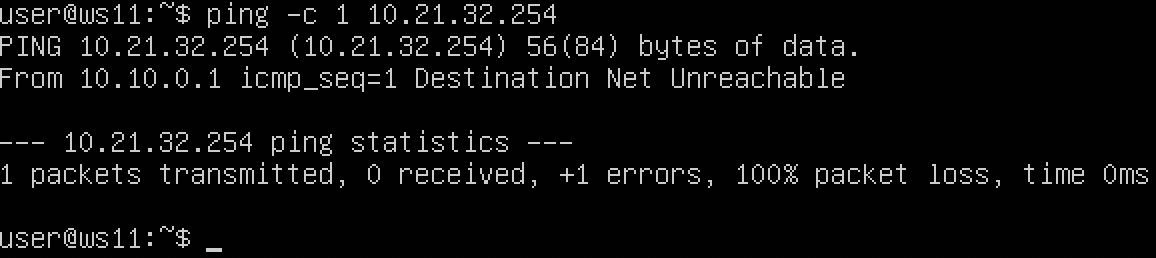
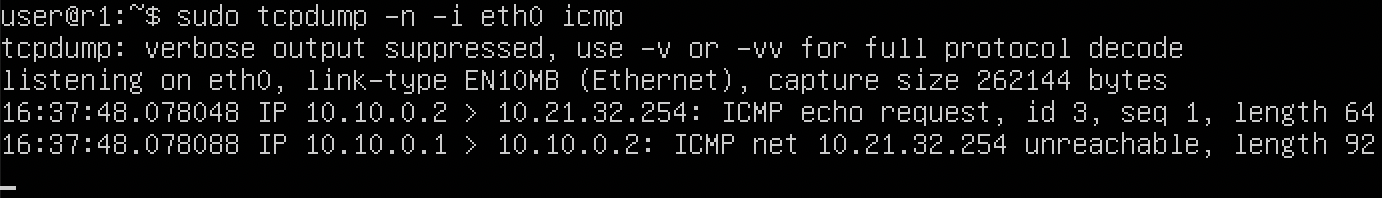
Part 5 is done

Changed region(s): [[0.0, 0.0, 0.872, 0.4848], [0.0, 0.5152, 0.9965, 0.7879], [0.0, 0.8788, 0.1869, 0.9697]]

diff --git a/src/d02_report.md b/src/d02_report.md
@@ -274,7 +274,7 @@ default via 10.10.0.1 dev eth0
     ![](screenshots/45.png)
 
 ##### Запустить команды на ws11: `ip r list 10.10.0.0/[маска сети]` и `ip r list 0.0.0.0/0`
-- Скриншоты с вызовом и выводом использованных команд:
+- Скриншоты с вызовом и выводом использованных команд:\
   ![](screenshots/46.png)
 - Для адреса 10.10.0.0/[порт сети] был выбран маршрут, отличный от 0.0.0.0/0, чтобы точно указать адрес подсети. Другими словами, адрес 0.0.0.0/0 включает все хосты всех сетей и, когда пакеты отправляются хосту из подсети 10.10.0.0/18, они бы просто не доходили, так как у них точного адреса назначения. 
 
@@ -287,15 +287,32 @@ default via 10.10.0.1 dev eth0
 ```
 ##### Запустить на r1 команду дампа: `tcpdump -tnv -i eth0`
 ##### При помощи утилиты **traceroute** построить список маршрутизаторов на пути от ws11 до ws21
-- В отчёт поместить скрины с вызовом и выводом использованных команд (tcpdump и traceroute).
-- В отчёте, опираясь на вывод, полученный из дампа на r1, объяснить принцип работы построения пути при помощи **traceroute**.
+- Скриншот с выводом команды `traceroute` на ws11:\
+  ![](screenshots/47.png)
+- Скриншот с вызовом команды `tcpdump` на r1. Так как вывод команды не умещается на один экран, сделал пренаправление в файл:\
+  ![](screenshots/48.png)
+  - Первая часть вывода `tcpdump`\
+  ![](screenshots/49.png)
+  - Вторая часть вывода `tcpdump`\
+  ![](screenshots/50.png)
+  - Третья часть вывода `tcpdump`\
+  ![](screenshots/51.png)
+
+- Принцип работы построения пути при помощи **traceroute**.\
+  Первоначальный хост, с которого запускается команда, отправляет серию пакетов с ttl = 1.
+  ttl - время жизни пакета, характеризующееся количеством хостов, через которое должен пройти пакет, прежде чем будет удалён.
+  Первый пакет отправляется с ttl = 1, достигая первого маршрутизатора, он будет удалён, и маршрутизатор отправляет ICMP-сообщение: "time exceeded in-transit".
+  Получив подобное сообщение сообщение, traceroute увеличивает ttl следующих пакетов на 1.
+  traceroute отправляет пакеты на порты, которые заведомо не используются, поэтому, когда пакет достигнет адреса назначения, хост отправит сообщение типа "udp port 33440 unreachable".
+  Получив подобное сообщение traceroute завершает свою работу.
 
 #### 5.6. Использование протокола **ICMP** при маршрутизации
 ##### Запустить на r1 перехват сетевого трафика, проходящего через eth0 с помощью команды: `tcpdump -n -i eth0 icmp`
--
-
 ##### Пропинговать с ws11 несуществующий IP 
-- В отчёт поместить скрин с вызовом и выводом использованных команд.
+- Скриншот с вызовом и выводом указанной команды на роутере r1:\
+  ![](screenshots/52.png)
+- Скриншот с пингом несуществующего в подсетях проекта адреса 10.21.32.254:\
+  ![](screenshots/53.png)
 
 ##### Сохранить дампы образов виртуальных машин
 **p.s. Ни в коем случае не сохранять дампы в гит!**
